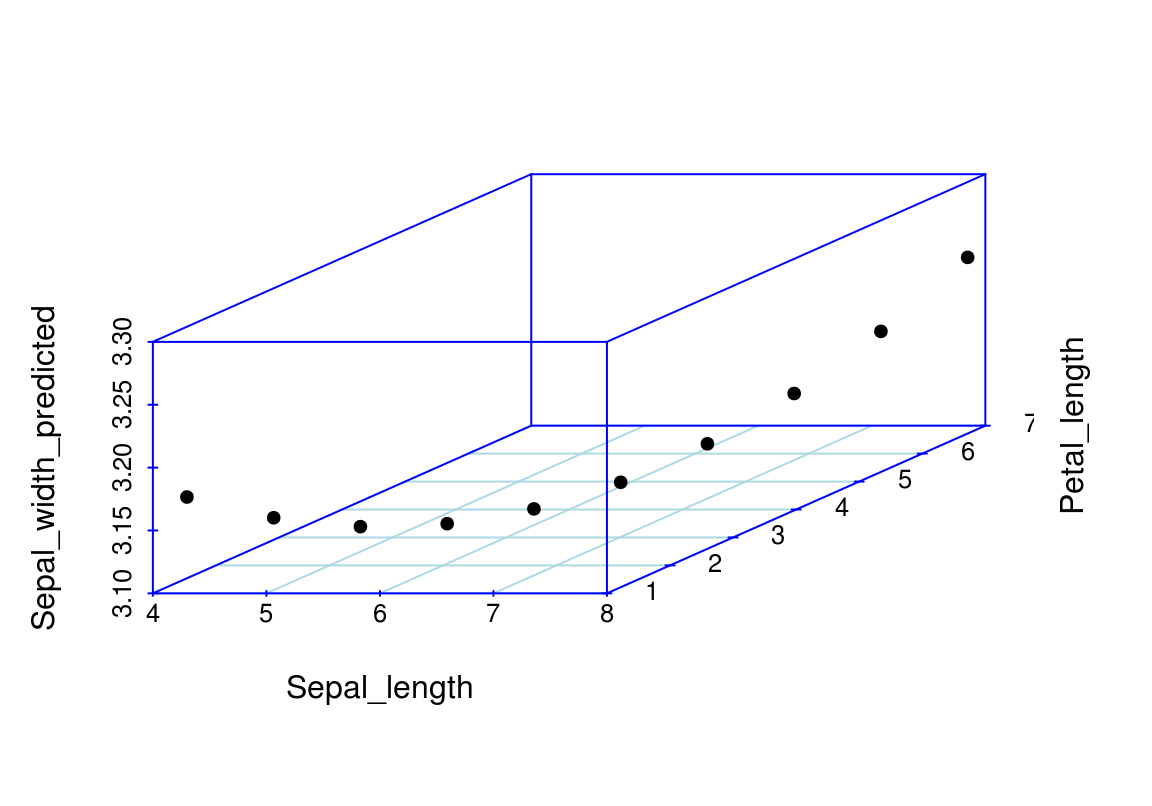
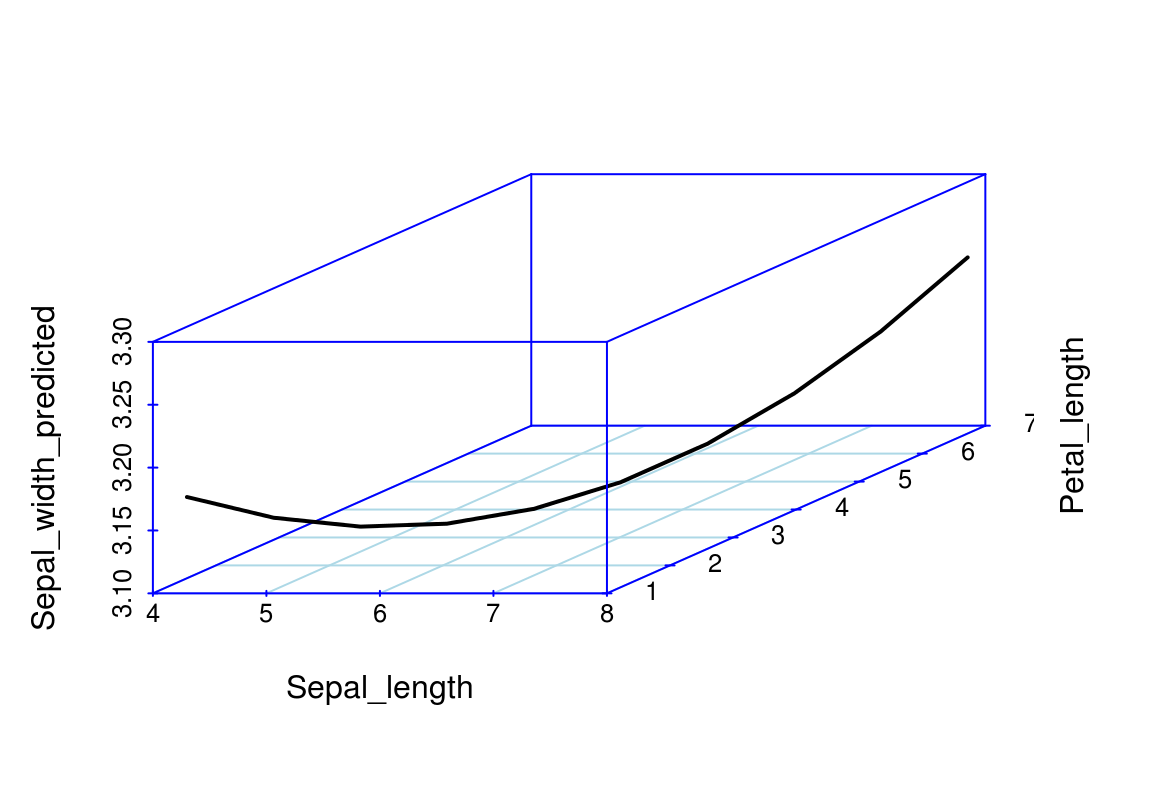
Update the book

diff --git a/kaks-lineaarse-mudeli-laiendust.html b/kaks-lineaarse-mudeli-laiendust.html
@@ -304,10 +304,6 @@ Joonis 5.3: Ennustatud y väärtused erinevatel <span class="math inline">\(x_1\
 </div>
 <p>Nüüd joonistame 3D pildi olukorrast, kus nii x<sub>1</sub> kui x<sub>2</sub> omandavad rea väärtusi. Mudeli ennustus on ikkagi sirge kujul – mis sest, et 3D ruumis.</p>
 
-<div class="sourceCode"><pre class="sourceCode r"><code class="sourceCode r">Petal_length &lt;-<span class="st"> </span><span class="kw">seq</span>(<span class="kw">min</span>(iris<span class="op">$</span>Petal.Length), <span class="kw">max</span>(iris<span class="op">$</span>Petal.Length), <span class="dt">length.out =</span> <span class="dv">10</span>)
-Sepal_width_predicted &lt;-<span class="st"> </span>a <span class="op">+</span><span class="st"> </span>b1 <span class="op">*</span><span class="st"> </span>Sepal_length <span class="op">+</span><span class="st"> </span>b2 <span class="op">*</span><span class="st"> </span>Petal_length
-dfr &lt;-<span class="st"> </span><span class="kw">data_frame</span>(Sepal_width_predicted, Sepal_length, Petal_length)
-<span class="kw">with</span>(dfr, <span class="kw">scatterplot3d</span>(Sepal_length, Petal_length, Sepal_width_predicted, <span class="dt">col.axis =</span> <span class="st">&quot;blue&quot;</span>, <span class="dt">col.grid =</span> <span class="st">&quot;lightblue&quot;</span>, <span class="dt">type =</span> <span class="st">&quot;l&quot;</span>, <span class="dt">lwd =</span> <span class="dv">2</span>, <span class="dt">zlim =</span> <span class="kw">c</span>(<span class="fl">3.1</span>, <span class="fl">3.18</span>)))</code></pre></div>
 <div class="figure" style="text-align: center"><span id="fig:kaksprediktorit"></span>
 <img src="05_lin_mudeli_laiendused_files/figure-html/kaksprediktorit-1.png" alt="Kahe prediktoriga mudeli ennustus 3D ruumis." width="70%" />
 <p class="caption">
@@ -353,10 +349,6 @@ Joonis 5.5: Ennustus interaktsioonimudelist, kus x<sub>1</sub> (Sepal_Length) on
 <p>Nagu näha viib korrutamistehe selleni, et interaktsioonimudeli tõus erineb ilma interaktsioonita mudeli tõusust.</p>
 <p>Kui aga interaktsioonimudel plottida välja 3D-s üle paljude x<sub>1</sub> ja x<sub>2</sub> väärtuste, saame me regressioonikurvi (mitte sirge), kus b<sub>3</sub> annab kurvatuuri.</p>
 
-<div class="sourceCode"><pre class="sourceCode r"><code class="sourceCode r">Petal_length &lt;-<span class="st">  </span><span class="kw">seq</span>(<span class="kw">min</span>(iris<span class="op">$</span>Petal.Length), <span class="kw">max</span>(iris<span class="op">$</span>Petal.Length), <span class="dt">length.out =</span> <span class="dv">10</span>)
-Sepal_width_predicted &lt;-<span class="st"> </span>a <span class="op">+</span><span class="st"> </span>b1 <span class="op">*</span><span class="st"> </span>Sepal_length <span class="op">+</span><span class="st"> </span>b2 <span class="op">*</span><span class="st"> </span>Petal_length <span class="op">+</span><span class="st">  </span>b3 <span class="op">*</span><span class="st"> </span>Sepal_length <span class="op">*</span><span class="st"> </span>Petal_length
-dfr &lt;-<span class="st"> </span><span class="kw">data.frame</span>(Sepal_width_predicted, Sepal_length, Petal_length)
-<span class="kw">with</span>(dfr, <span class="kw">scatterplot3d</span>(Sepal_length, Petal_length, Sepal_width_predicted, <span class="dt">pch =</span> <span class="dv">20</span>, <span class="dt">col.axis =</span> <span class="st">&quot;blue&quot;</span>, <span class="dt">col.grid =</span> <span class="st">&quot;lightblue&quot;</span>, <span class="dt">lwd =</span> <span class="dv">2</span>, <span class="dt">zlim =</span> <span class="kw">c</span>(<span class="fl">3.1</span>, <span class="fl">3.3</span>)))</code></pre></div>
 <div class="figure" style="text-align: center"><span id="fig:ennustused3d-interaktsioonimudelist"></span>
 <img src="05_lin_mudeli_laiendused_files/figure-html/ennustused3d-interaktsioonimudelist-1.png" alt="Ennustused 3D interaktsioonimudelist üle paljude x1 (Sepal_Length) ja x2 (Petal_length) väärtuste." width="70%" />
 <p class="caption">

diff --git a/05_lin_mudeli_laiendused.md b/05_lin_mudeli_laiendused.md
@@ -121,14 +121,6 @@ Nüüd joonistame 3D pildi olukorrast, kus nii x~1~ kui x~2~ omandavad rea vää
 
 (ref:kaksprediktorit) Kahe prediktoriga mudeli ennustus 3D ruumis.
 
-
-```r
-Petal_length <- seq(min(iris$Petal.Length), max(iris$Petal.Length), length.out = 10)
-Sepal_width_predicted <- a + b1 * Sepal_length + b2 * Petal_length
-dfr <- data_frame(Sepal_width_predicted, Sepal_length, Petal_length)
-with(dfr, scatterplot3d(Sepal_length, Petal_length, Sepal_width_predicted, col.axis = "blue", col.grid = "lightblue", type = "l", lwd = 2, zlim = c(3.1, 3.18)))
-```
-
 <div class="figure" style="text-align: center">
 <img src="05_lin_mudeli_laiendused_files/figure-html/kaksprediktorit-1.png" alt="(ref:kaksprediktorit)" width="70%" />
 <p class="caption">(\#fig:kaksprediktorit)(ref:kaksprediktorit)</p>
@@ -192,14 +184,6 @@ Nagu näha viib korrutamistehe selleni, et interaktsioonimudeli tõus erineb ilm
 Kui aga interaktsioonimudel plottida välja 3D-s üle paljude x~1~ ja x~2~ väärtuste, saame me regressioonikurvi (mitte sirge), kus b~3~ annab kurvatuuri.
 
 (ref:ennustused3d-interaktsioonimudelist) Ennustused 3D interaktsioonimudelist üle paljude x~1~ (Sepal_Length) ja x~2~ (Petal_length) väärtuste.
-
-
-```r
-Petal_length <-  seq(min(iris$Petal.Length), max(iris$Petal.Length), length.out = 10)
-Sepal_width_predicted <- a + b1 * Sepal_length + b2 * Petal_length +  b3 * Sepal_length * Petal_length
-dfr <- data.frame(Sepal_width_predicted, Sepal_length, Petal_length)
-with(dfr, scatterplot3d(Sepal_length, Petal_length, Sepal_width_predicted, pch = 20, col.axis = "blue", col.grid = "lightblue", lwd = 2, zlim = c(3.1, 3.3)))
-```
 
 <div class="figure" style="text-align: center">
 <img src="05_lin_mudeli_laiendused_files/figure-html/ennustused3d-interaktsioonimudelist-1.png" alt="(ref:ennustused3d-interaktsioonimudelist)" width="70%" />
